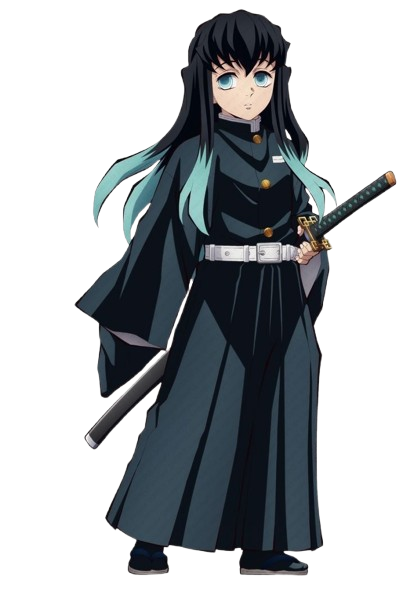
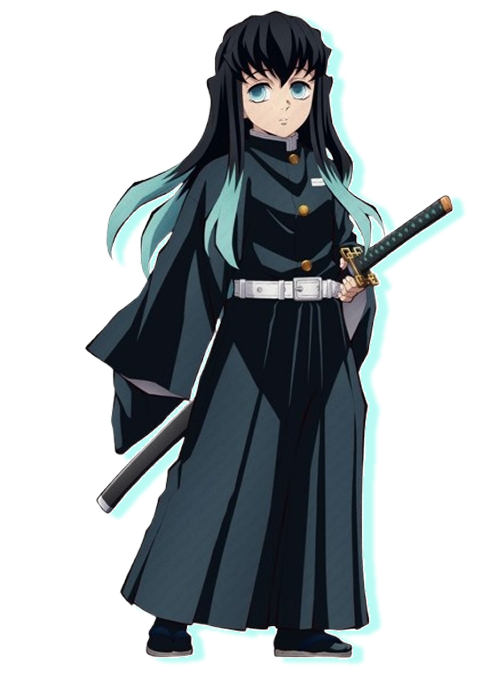
MOD: Section HOME finalizada, iniciando a section SKILLS.

Changed region(s): [[0.1739, 0.0, 0.9565, 0.9568]]

diff --git a/index.html b/index.html
@@ -35,7 +35,7 @@
         <section class="content-home" id="content-home">
             <div class="left">
                 <h1>This is my Portifolio Website.</h1>
-                <p>My name is Davi and here, you are going to see
+                <p>My name is <span>Davi</span> and here, you are going to see
                     some of my skills and projects as a system development student.</p>
 
             </div>
@@ -52,28 +52,28 @@
             <h1>SKILLS</h1>
 
             <figure class="python">
-                <img src="./src/assets/img/python-logo.svg" alt="Python logo">
+                <img src="./src/assets/img/python-logo.png" alt="Python logo">
                 <figcaption>
                     <h2>Python</h2>
                 </figcaption>
             </figure>
 
             <figure class="mysql">
-                <img src="./src/assets/img/mysql-logo.svg" alt="MySQL logo">
+                <img src="./src/assets/img/mysql-logo.png" alt="MySQL logo">
                 <figcaption>
                     <h2>MySQL</h2>
                 </figcaption>
             </figure>
 
             <figure class="html">
-                <img src="./src/assets/img/html-logo.svg" alt="HTML logo">
+                <img src="./src/assets/img/html-logo.png" alt="HTML logo">
                 <figcaption>
                     <h2>HTML</h2>
                 </figcaption>
             </figure>
 
             <figure class="css">
-                <img src="./src/assets/img/css-logo.svg" alt="CSS logo">
+                <img src="./src/assets/img/css-logo.png" alt="CSS logo">
                 <figcaption>
                     <h2>CSS</h2>
                 </figcaption>

diff --git a/src/styles/global.css b/src/styles/global.css
@@ -15,6 +15,8 @@ body{
 
 }
 
+
+/* HEADER */
 .header{
     position: fixed;
     top: 0;
@@ -58,21 +60,25 @@ body{
     user-select: none;
     color: #ffffff;
     text-decoration: none;
-    transition:  2s ease;
+    transition:  0.5s ease;
     font-size: 20px;
+    border-bottom: 2px solid transparent;
 }
 
 .header-menu li a:hover{
     color: #5DF3E4;
-    transform: scale(1.2);
+    border-bottom: 2px solid #fff;
 
 }
 
+
+/* SECTIONS */
 section{
     height: 100vh;
     background: url(../assets/img/background.png);
 }
 
+/* SECTION HOME */
 .content-home{
     display: flex;
     justify-content: space-evenly;
@@ -99,8 +105,31 @@ section{
     font-size: 36px;
 }
 
+.left span{
+    color: #5DF3E4;
+    font-weight: bold;
+}
 
+.right{
+    display: flex;
+}
 
+.right img{
+    filter: drop-shadow(1200px 4px 4px 0 rgba(93, 243, 228, 0.42));
+}
+
+/* SECTION SKILLS */
+.content-skills{
+    display: flex;
+    justify-content: space-evenly;
+    align-items: center;
+    margin-top: 10vh;
+    background-size: 100%;
+    background-repeat: no-repeat;   
+
+}
+
+/* FOOTER */
 footer{
     width: 100%;
     height: 60px;
